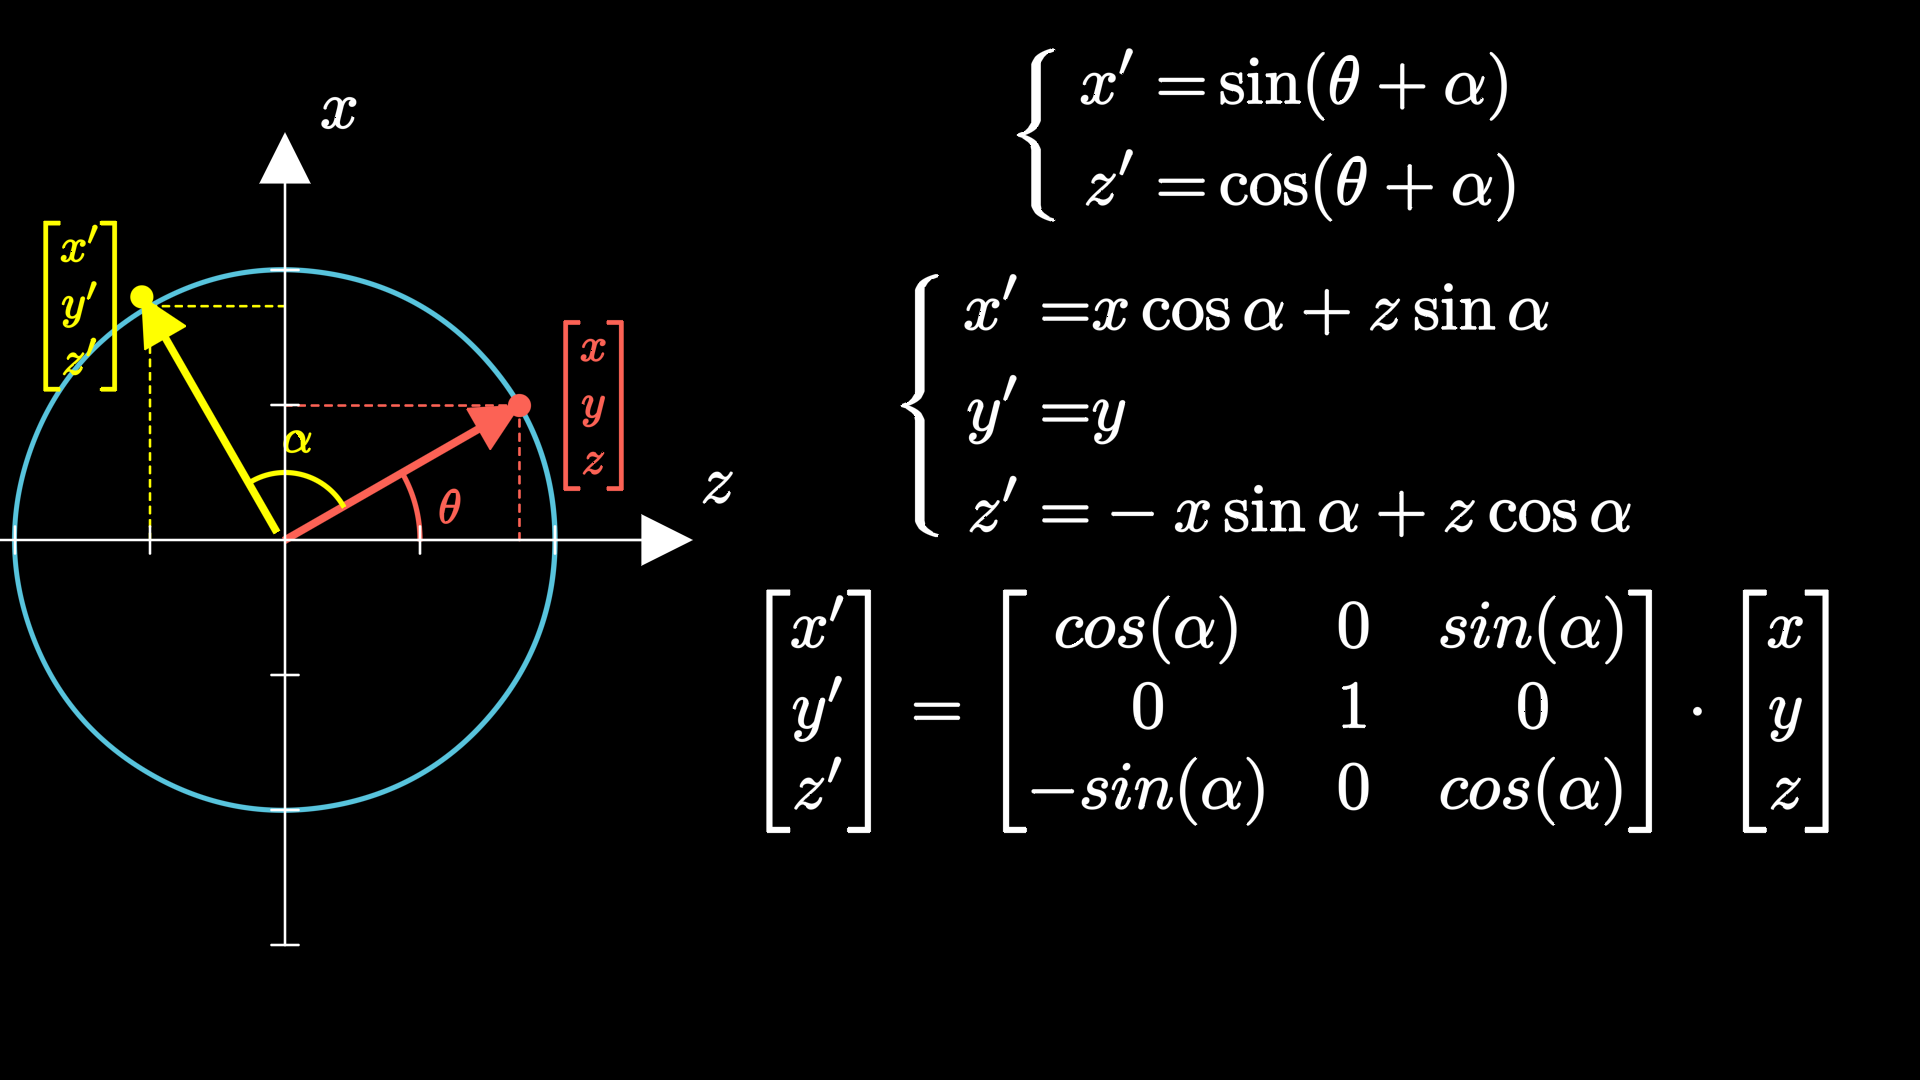
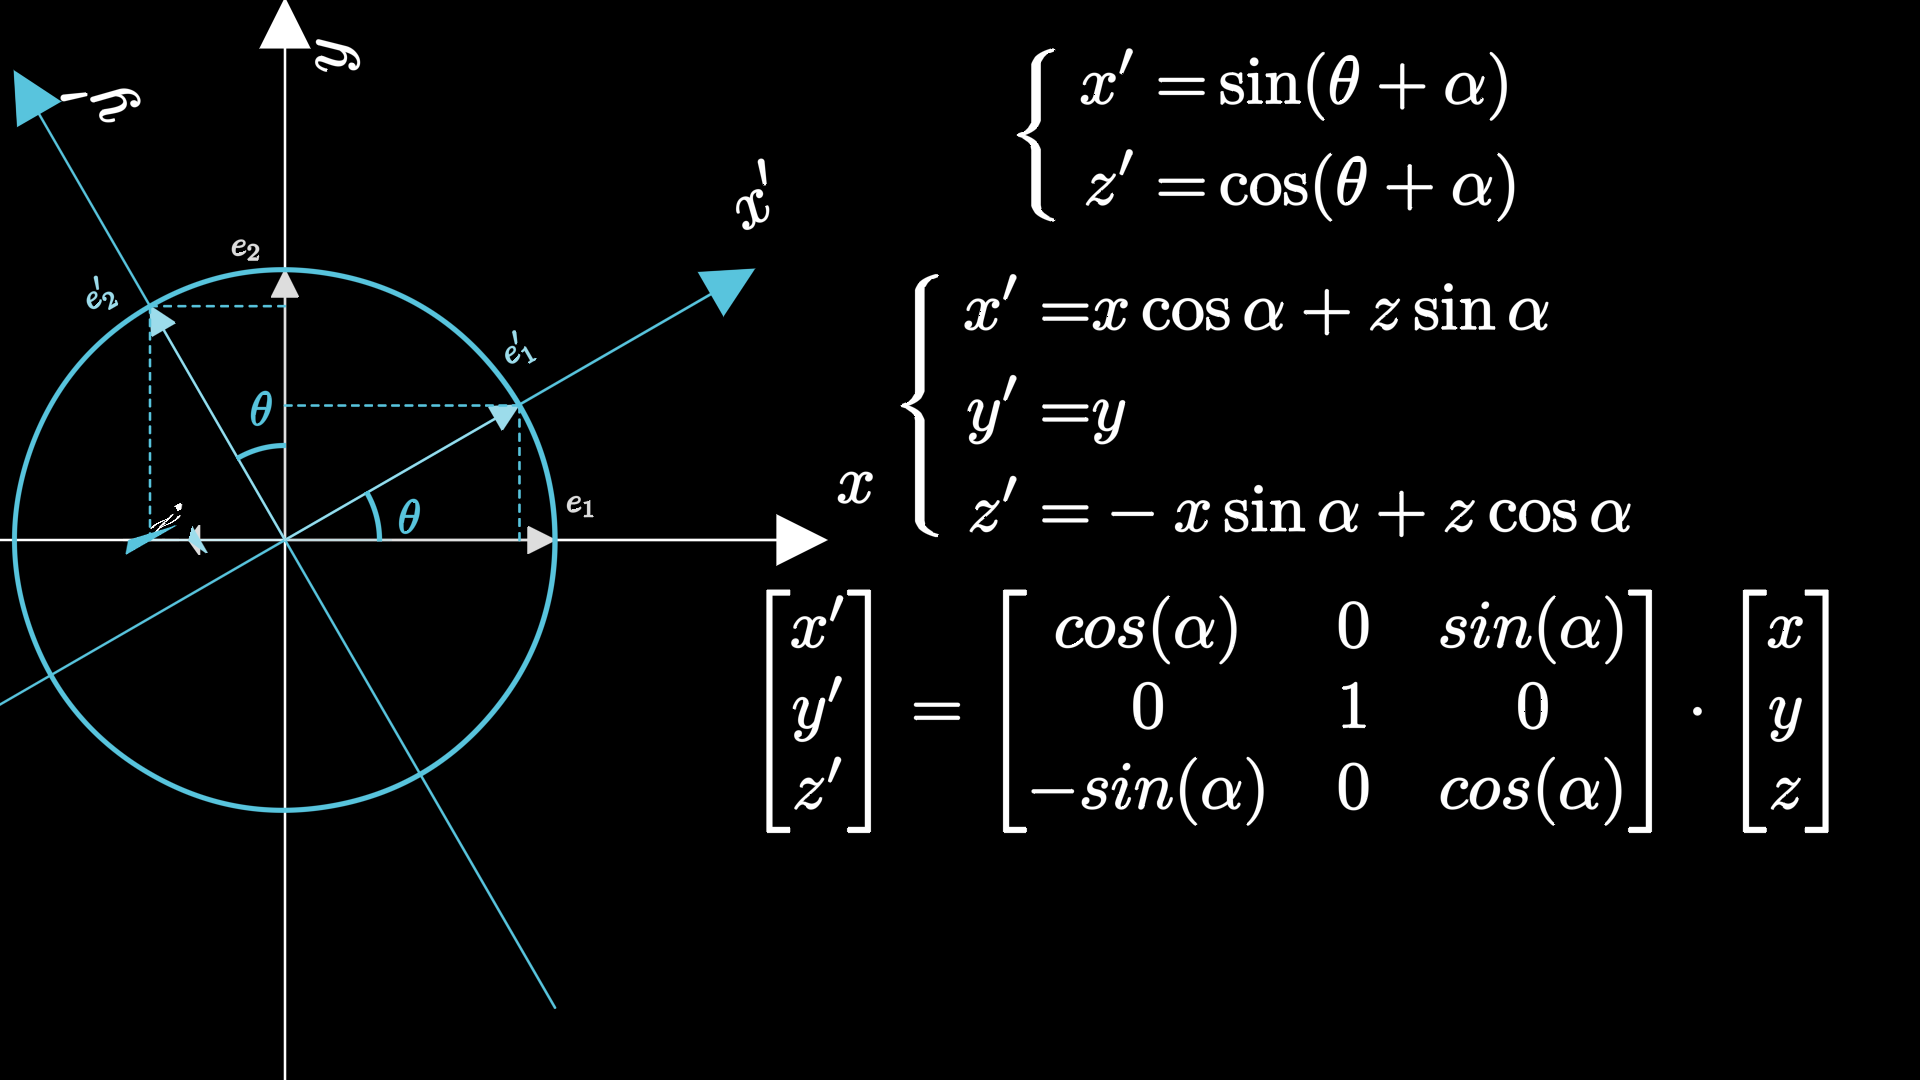
向量的，小箭头

diff --git a/learning/image-transformation-3d/5-002-3d-rotation-base-vector.py b/learning/image-transformation-3d/5-002-3d-rotation-base-vector.py
@@ -116,6 +116,50 @@ class ThreeDRotationVector001(ThreeDScene):
         end_lines.set_color(BLUE)
         self.play(Create(end_lines))
 
+
+        axes2.get_z_axis_label().set_opacity(0)
+        axes.get_z_axis_label().set_opacity(0)
+        self.move_camera(frame_center=[5, 0, 0])
+        self.wait()
+        return
+        tex = MathTex(r"""
+        x' =& \sin( \theta+\alpha)   \\
+        z' =& \cos(\theta+ \alpha) 
+                """)
+
+        tex.shift(np.array([7.5, 3, 0]))
+        self.play(Write(tex))
+
+        brace = Brace(tex, direction=LEFT)
+        self.play(FadeIn(brace))
+
+        tex1 = MathTex(r"""
+        x' =& x\cos\alpha + z\sin\alpha \\
+        y' =&y\\
+        z' =& -x\sin\alpha + z\cos\alpha
+                """)
+
+        tex1.next_to(tex, direction=DOWN, buff=0.4)
+        brace1 = Brace(tex1, direction=LEFT)
+        self.play(Write(tex1), FadeIn(brace1))
+
+        tex12 = MathTex(r"""
+        \begin{bmatrix} x' \\ y' \\z' \end{bmatrix}
+        =
+        \begin{bmatrix} 
+        cos(\alpha) & 0& sin(\alpha)  \\ 
+        0 & 1 &0\\
+        -sin(\alpha) & 0 & cos(\alpha) 
+        \end{bmatrix}
+        \cdot 
+        \begin{bmatrix} x \\ y \\z \end{bmatrix}
+                        """)
+        self.play(Write(tex12.next_to(tex1, direction=DOWN, buff=0.4)))
+        image = self.renderer.get_frame()
+        im = Image.fromarray(image)
+        im.save("out_img/y-转动.png")
+
+
         return
 
 
